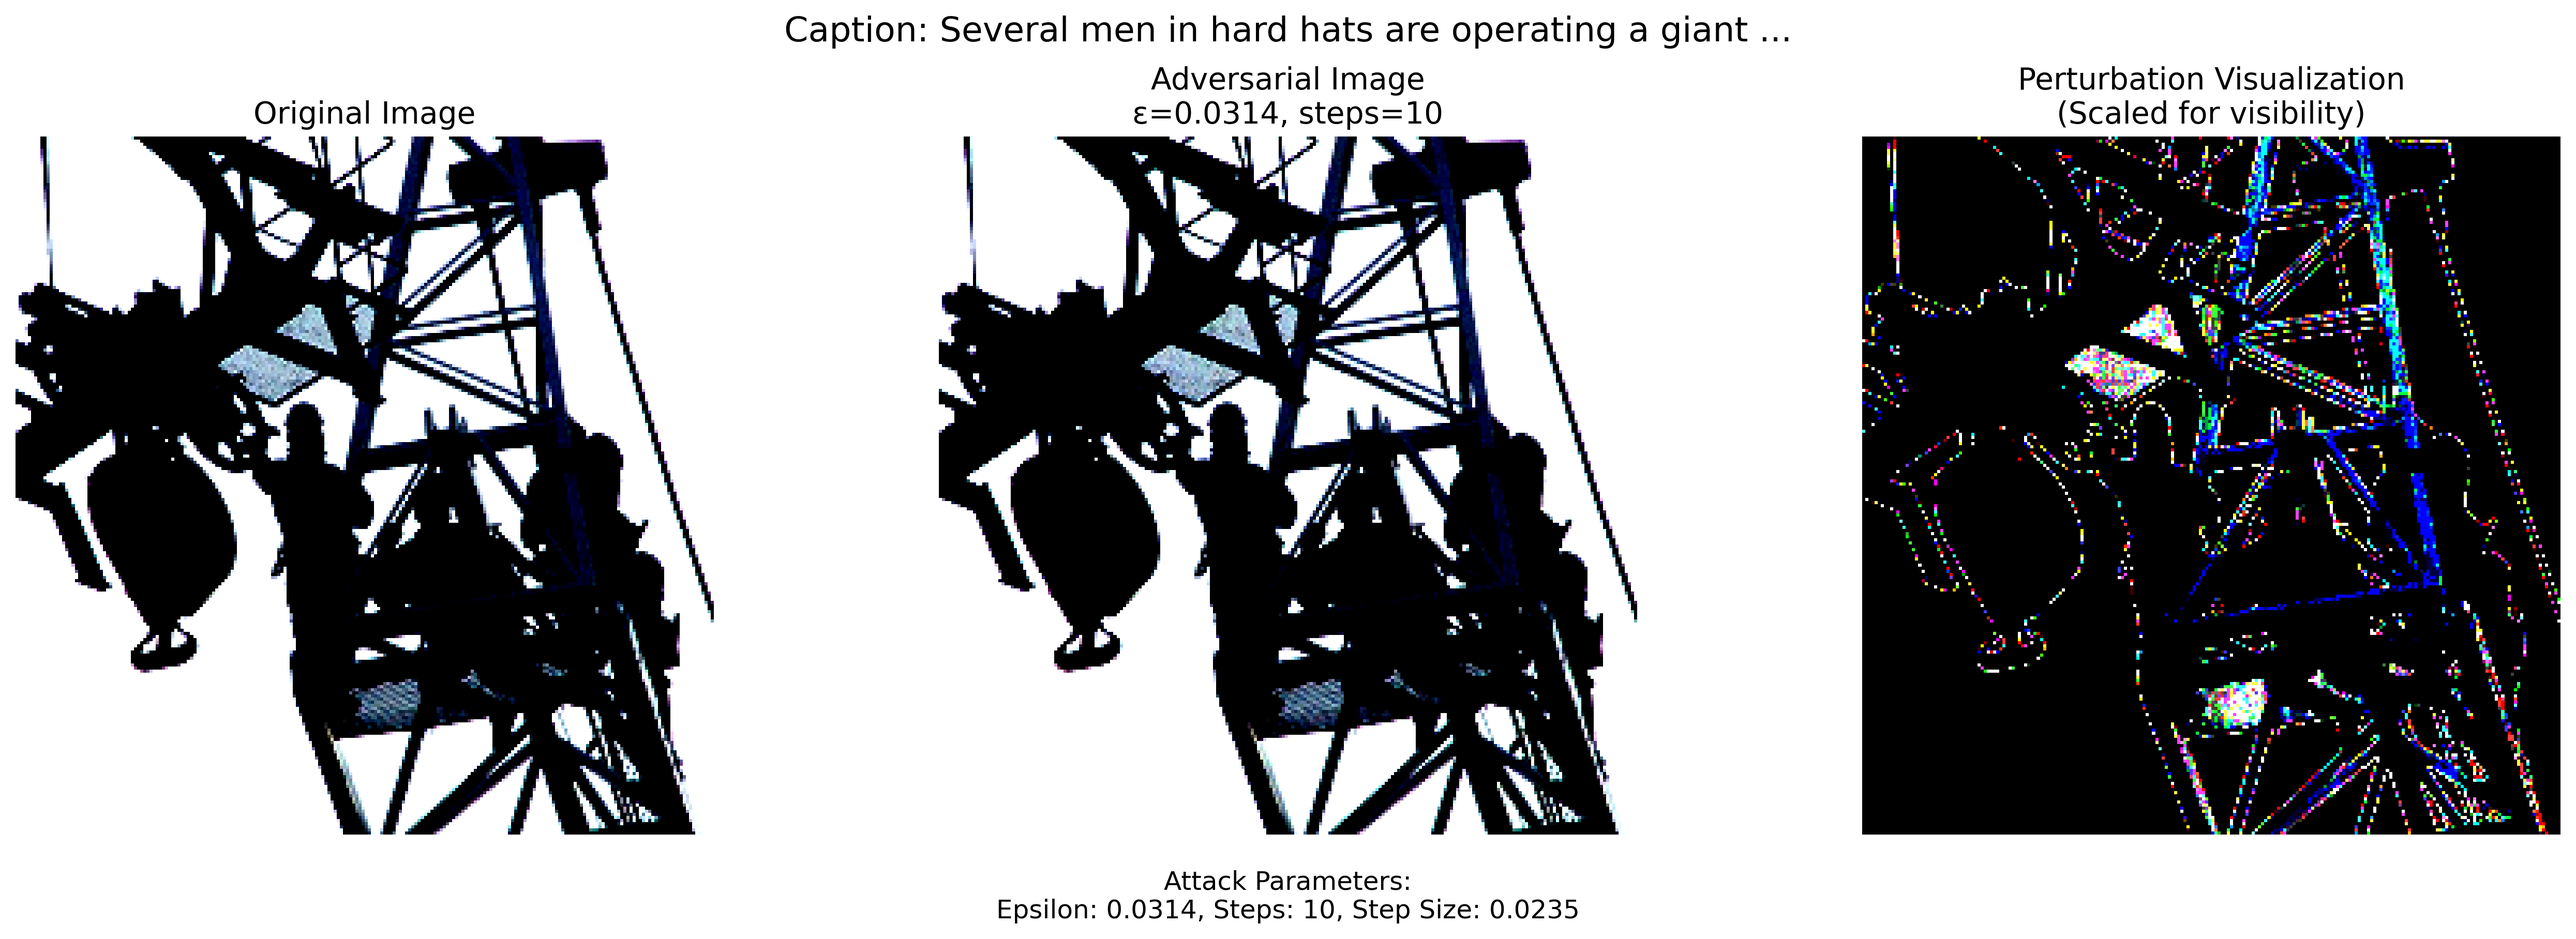
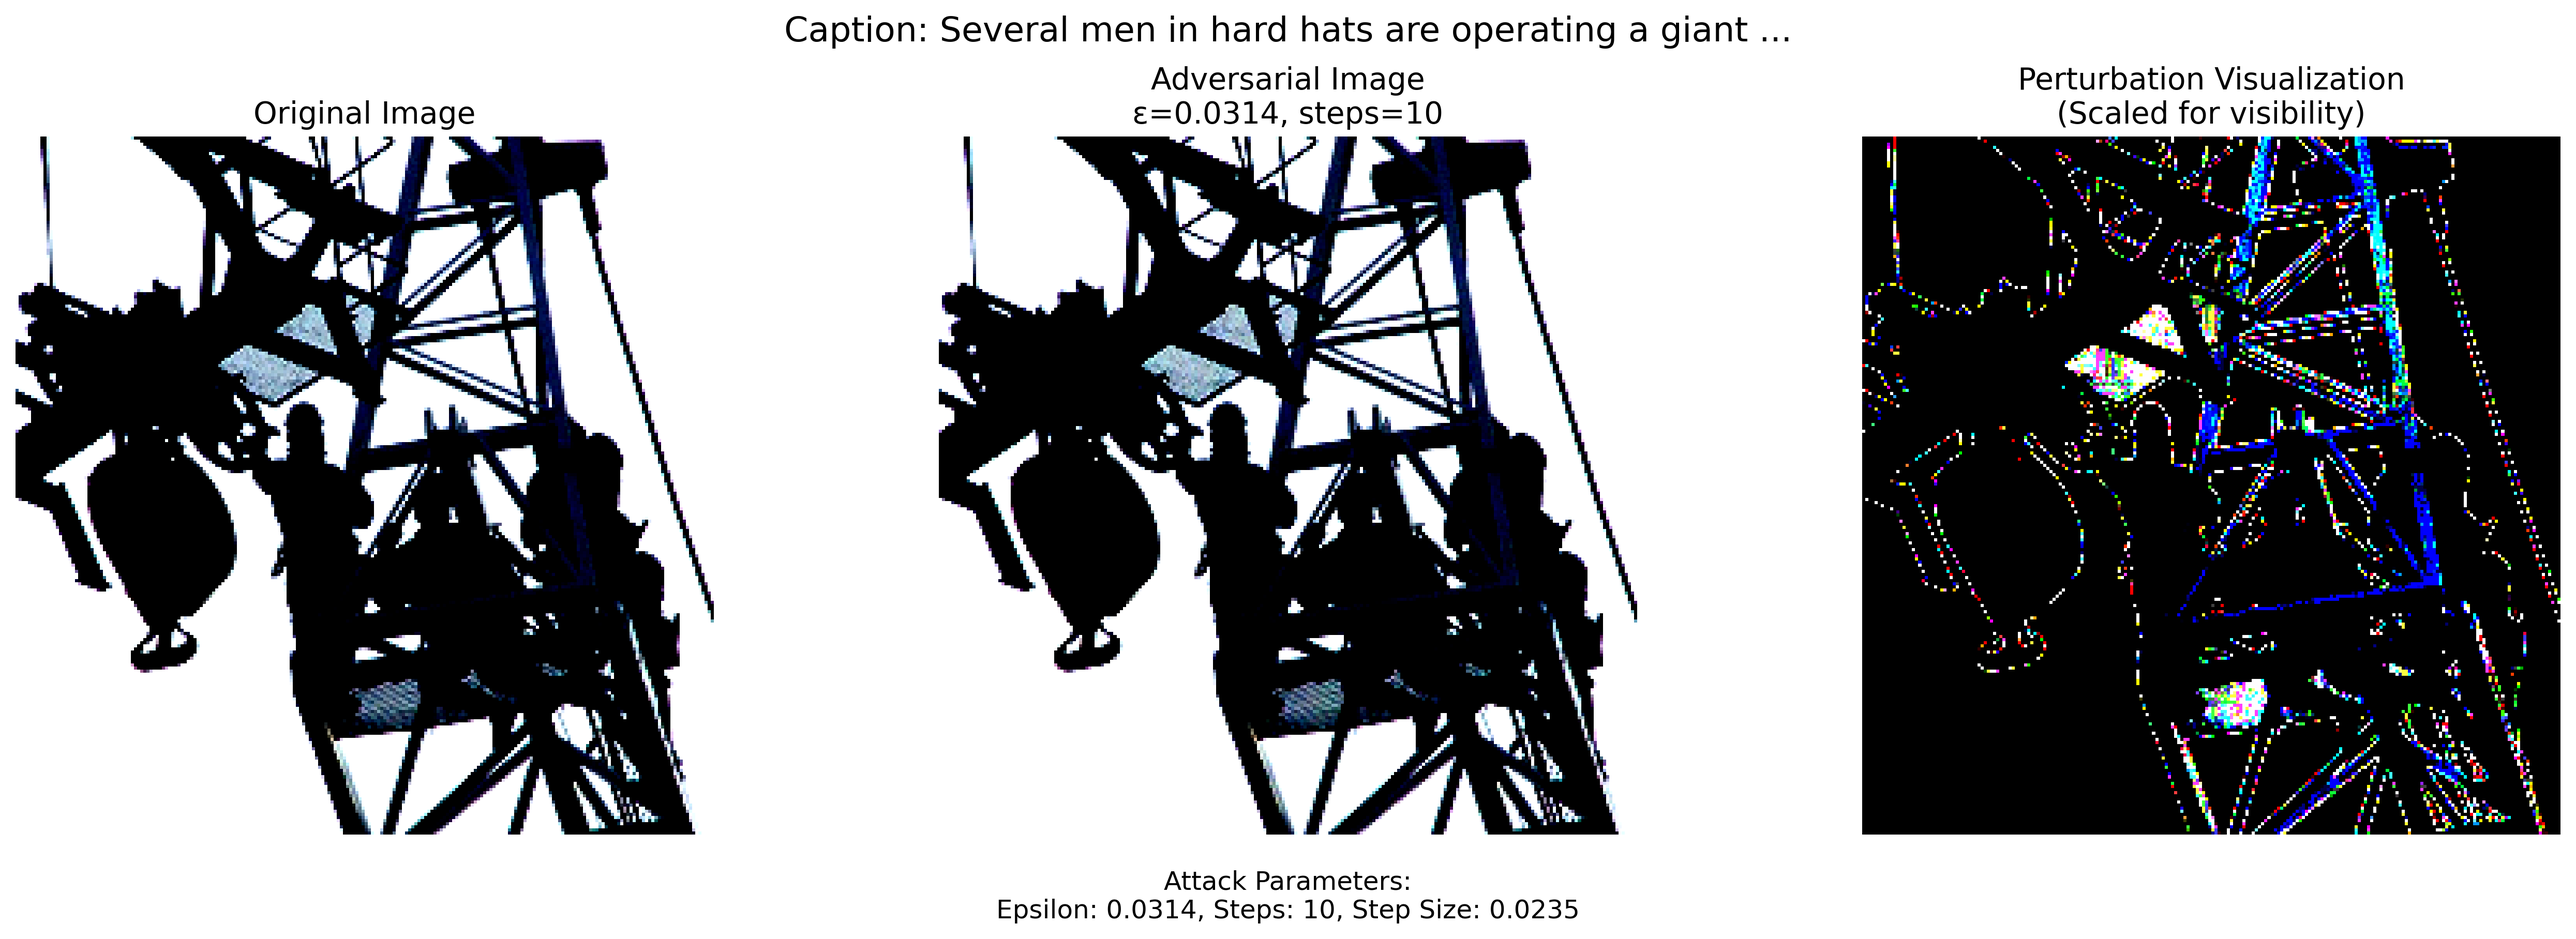
fixed the issue with PGD attack.

diff --git a/src/attacks/pgd.py b/src/attacks/pgd.py
@@ -135,10 +135,10 @@ class PGDAttack:
                         # For targeted attack, maximize similarity to target captions
                         target_similarities = target_logits[torch.arange(batch_size), targets]
                         # Minimize original similarity, maximize target similarity
-                        loss = -target_similarities.sum() + matched_similarities.sum()
+                        loss = matched_similarities.sum() - target_similarities.sum()
                     else:
                         # For untargeted attack, minimize similarity to original captions
-                        loss = -matched_similarities.sum()
+                        loss = matched_similarities.sum()
                     
                 else:
                     # For BLIP-like models
@@ -163,12 +163,12 @@ class PGDAttack:
                         
                         if self.targeted and target_captions is not None:
                             target_similarities = target_outputs.logits_per_image[torch.arange(batch_size), targets]
-                            loss = -target_similarities.sum() + matched_similarities.sum()
+                            loss = matched_similarities.sum() - target_similarities.sum()
                         else:
-                            loss = -matched_similarities.sum()
+                            loss = matched_similarities.sum()
                     else:
                         # Fallback for other model types
-                        loss = -outputs.similarity_scores.mean()
+                        loss = outputs.similarity_scores.mean()
             
             # Zero all existing gradients
             self.model.zero_grad()
